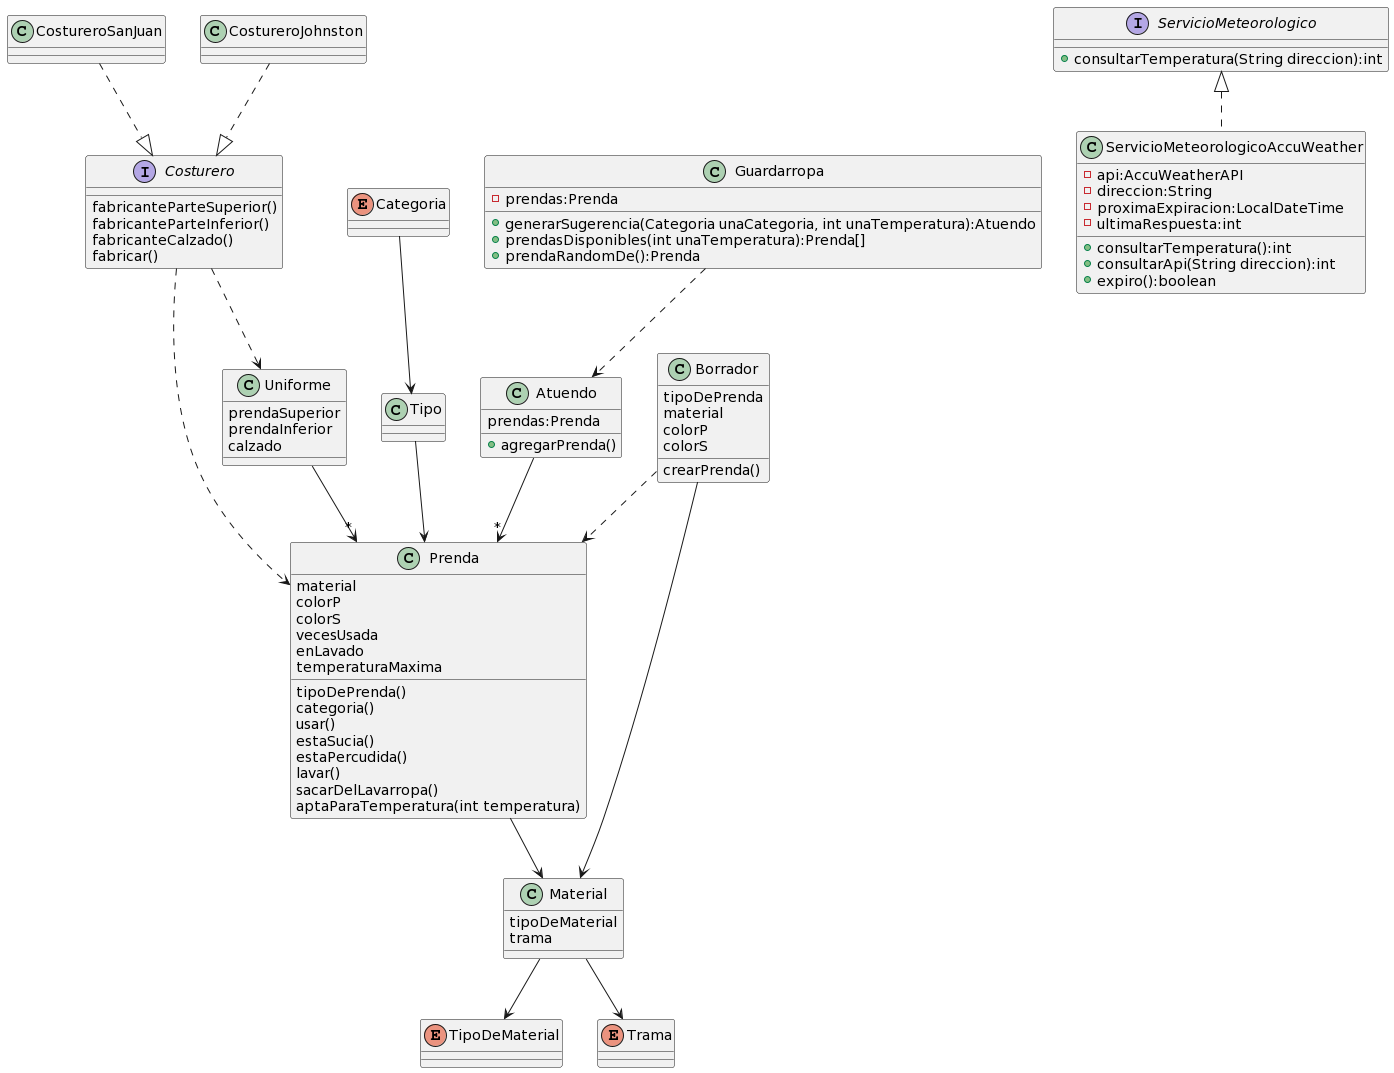
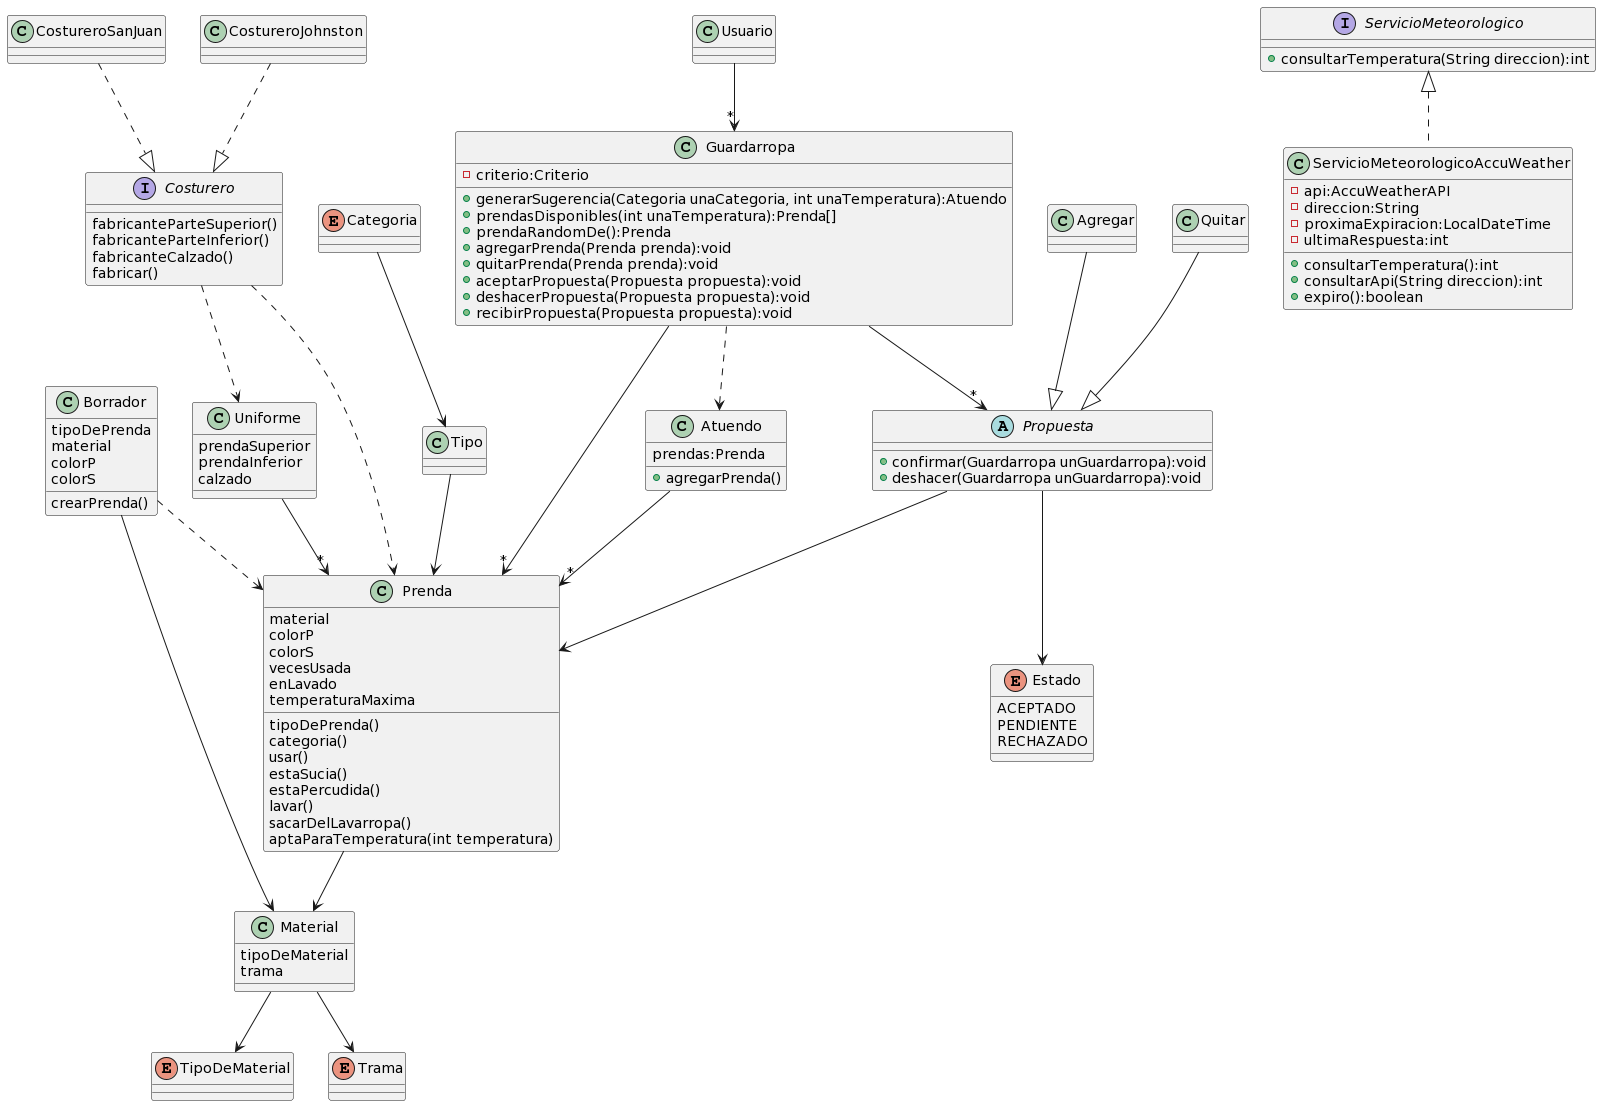
Diagrama y pequeño cambio

diff --git a/Propuesta.java b/Propuesta.java
@@ -1,5 +1,6 @@
 
 public abstract Propuesta {
+	Prenda unaPrenda;
 	Estado estado;
 	abstract void confirmar(Guardarropa unGuardarropa);
 	abstract void deshacer(Guardarropa unGuardarropa);
@@ -7,7 +8,6 @@ public abstract Propuesta {
 }
 
 class Agregar extends Propuesta {
-	Prenda unaPrenda;
 	
 	void confirmar(Guardarropa unGuardarropa) {
 		unGuardarropa.agregarPrenda(unaPrenda);
@@ -20,7 +20,6 @@ class Agregar extends Propuesta {
 }
 
 class Quitar extends Propuesta {
-	Prenda unaPrenda;
 	
 	void confirmar(Guardarropa unGuardarropa) {
 		unGuardarropa.quitarPrenda(unaPrenda);
